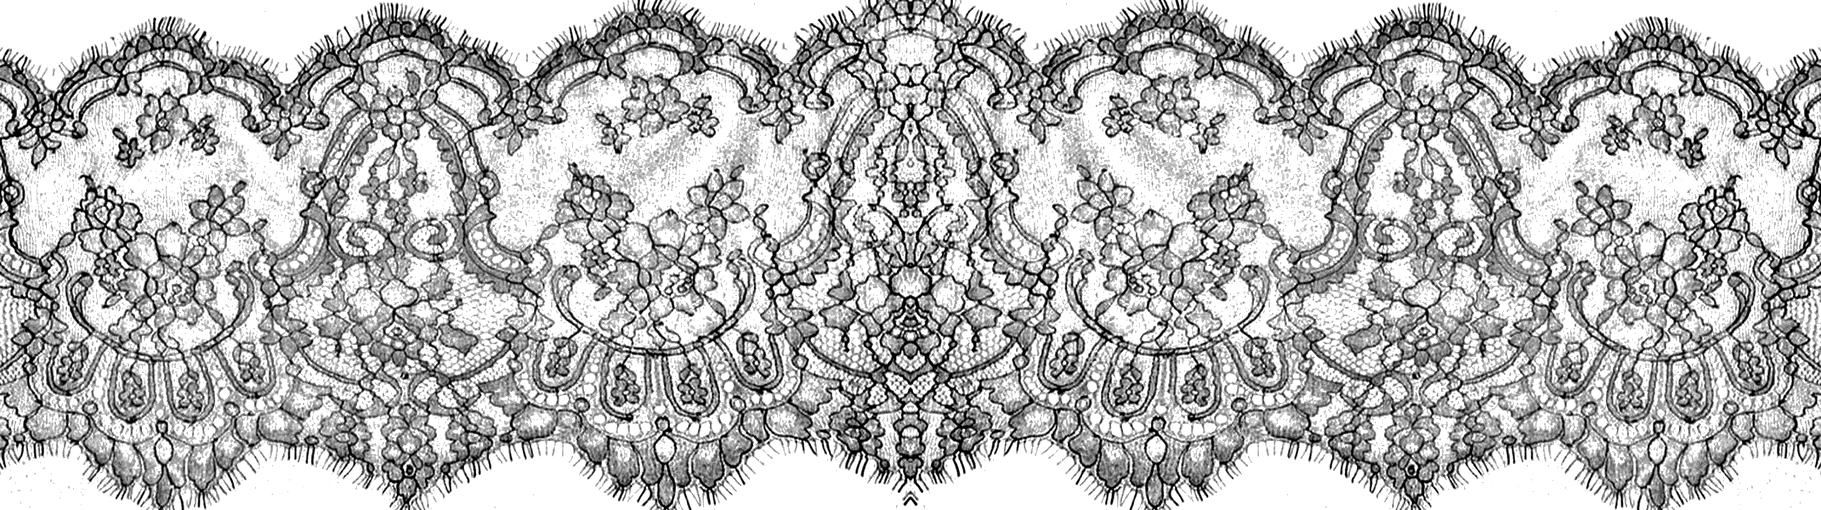
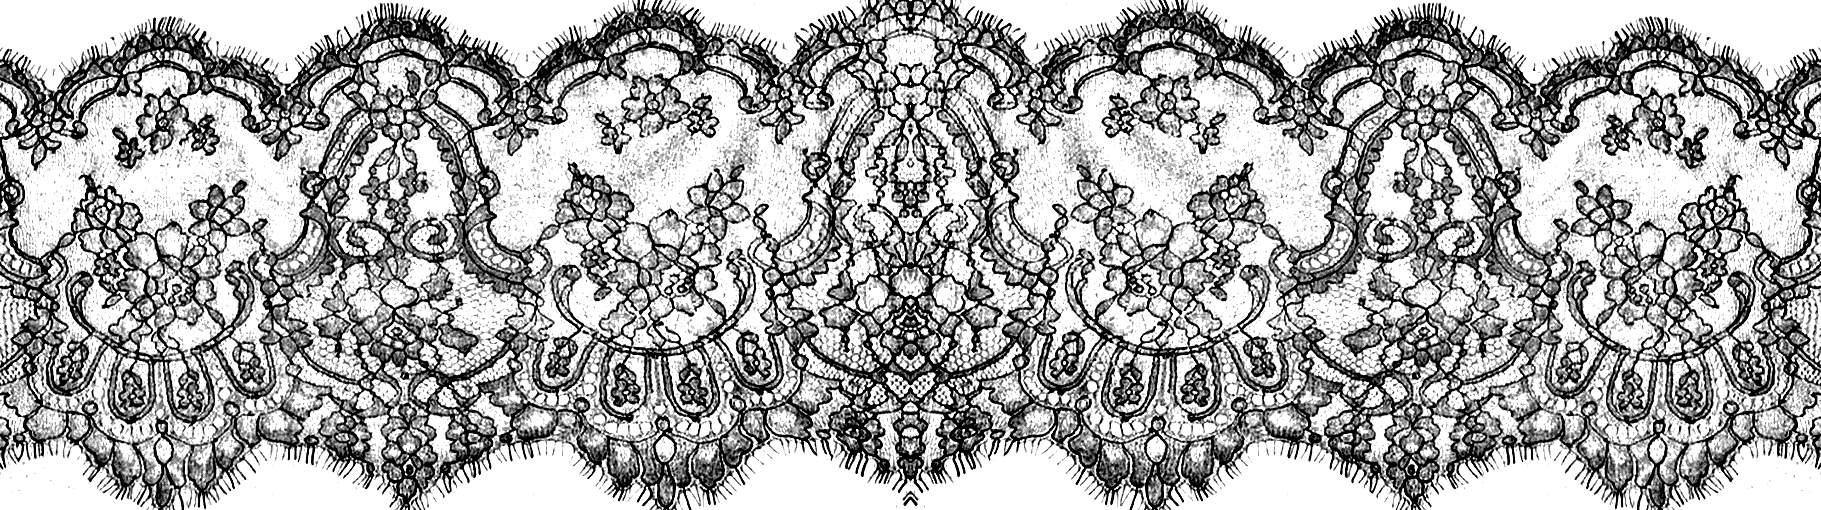
Simple Onyx 'Stories' title; spacing fixes under page titles and on Join; darker lace; beige shelf and ring panels

diff --git a/assets/css/style.css b/assets/css/style.css
@@ -198,7 +198,7 @@ body::after {
 .shelf-panel {
   position: relative;
   margin: 34px var(--gutter) 0;
-  background: #F2F2F0;
+  background: var(--ivory);
   padding: 28px 0 0;
   overflow: hidden;
 }
@@ -398,7 +398,7 @@ main p em, main li em { color: var(--magenta); }
 @media (max-width: 820px) { .site-footer { grid-template-columns: 1fr; } }
 
 /* ---------- generic page header ---------- */
-.page-head { padding: 60px var(--gutter) 40px; text-align: center; }
+.page-head { padding: 60px var(--gutter) 56px; text-align: center; }
 .page-head .kicker { display: block; margin-bottom: 18px; color: var(--muted); }
 .page-title {
   font-family: var(--f-title); font-weight: 400;
@@ -530,7 +530,7 @@ main p em, main li em { color: var(--magenta); }
 /* ---------- gallery ring ---------- */
 .ring-frame {
   position: relative; margin: 0 var(--gutter);
-  background: #E6E6E3; height: calc(100vh - var(--nav-h) - 90px); min-height: 560px;
+  background: var(--ivory); height: calc(100vh - var(--nav-h) - 90px); min-height: 560px;
   overflow: hidden;
 }
 .ring-frame .panel-corners { inset: 14px 18px auto; }
@@ -593,7 +593,7 @@ main p em, main li em { color: var(--magenta); }
 .issue-card p { margin: 6px 0 0; font-size: 15px; color: var(--muted); }
 
 /* ---------- join / get involved ---------- */
-.repeat-type { font-family: var(--f-cond); font-size: clamp(60px, 13vw, 200px); line-height: .82; margin: 0; letter-spacing: -.02em; }
+.repeat-type { font-family: var(--f-cond); font-size: clamp(60px, 13vw, 200px); line-height: .95; margin: 14px 0 0; letter-spacing: -.02em; }
 .repeat-type span { display: block; }
 .repeat-type span:nth-child(1) { opacity: .25; } .repeat-type span:nth-child(2) { opacity: .55; }
 .join-grid { display: grid; grid-template-columns: 1fr 1fr; gap: 50px; margin-top: 70px; }

diff --git a/gallery.html b/gallery.html
@@ -9,12 +9,12 @@
   <link rel="preconnect" href="https://fonts.gstatic.com" crossorigin>
   <link href="https://fonts.googleapis.com/css2?family=Anton&family=Bodoni+Moda:opsz,wght@6..96,400..700&family=Pinyon+Script&display=swap" rel="stylesheet">
   <link rel="preload" href="assets/fonts/OPTIOnyx.otf" as="font" type="font/otf" crossorigin>
-  <link rel="stylesheet" href="assets/css/style.css?v=2026111018173">
+  <link rel="stylesheet" href="assets/css/style.css?v=2026111018196">
 </head>
 <body data-page="gallery">
   <div id="site-header"></div>
   <main>
-    <header class="page-head" style="padding-bottom:24px">
+    <header class="page-head">
       <span class="kicker mono">photography from every shoot</span>
       <h1 class="page-title">The <em>Ring</em></h1>
     </header>
@@ -47,8 +47,8 @@
     <div class="bottom mono"><button class="lb-prev">← prev</button><span class="lb-credits"></span><button class="lb-next">next →</button></div>
   </div>
   <div id="site-footer"></div>
-  <script src="assets/js/data.js?v=2026111018173"></script>
-  <script src="assets/js/main.js?v=2026111018173"></script>
-  <script src="assets/js/ring.js?v=2026111018173"></script>
+  <script src="assets/js/data.js?v=2026111018196"></script>
+  <script src="assets/js/main.js?v=2026111018196"></script>
+  <script src="assets/js/ring.js?v=2026111018196"></script>
 </body>
 </html>

diff --git a/stories.html b/stories.html
@@ -9,14 +9,14 @@
   <link rel="preconnect" href="https://fonts.gstatic.com" crossorigin>
   <link href="https://fonts.googleapis.com/css2?family=Anton&family=Bodoni+Moda:opsz,wght@6..96,400..700&family=Pinyon+Script&display=swap" rel="stylesheet">
   <link rel="preload" href="assets/fonts/OPTIOnyx.otf" as="font" type="font/otf" crossorigin>
-  <link rel="stylesheet" href="assets/css/style.css?v=2026111018173">
+  <link rel="stylesheet" href="assets/css/style.css?v=2026111018196">
 </head>
 <body data-page="stories">
   <div id="site-header"></div>
   <main>
     <header class="page-head">
       <span class="kicker mono">fashion &amp; culture · fashion &amp; politics · fashion &amp; environment</span>
-      <h1 class="page-title">The <em>Stories</em></h1>
+      <h1 class="page-title"><span class="aera-word">Stories</span></h1>
     </header>
     <div class="wrap">
       <div class="filters" id="filters" role="group" aria-label="Filter stories by tag"></div>
@@ -24,8 +24,8 @@
     </div>
   </main>
   <div id="site-footer"></div>
-  <script src="assets/js/data.js?v=2026111018173"></script>
-  <script src="assets/js/main.js?v=2026111018173"></script>
+  <script src="assets/js/data.js?v=2026111018196"></script>
+  <script src="assets/js/main.js?v=2026111018196"></script>
 
 </body>
 </html>

diff --git a/archive.html b/archive.html
@@ -9,7 +9,7 @@
   <link rel="preconnect" href="https://fonts.gstatic.com" crossorigin>
   <link href="https://fonts.googleapis.com/css2?family=Anton&family=Bodoni+Moda:opsz,wght@6..96,400..700&family=Pinyon+Script&display=swap" rel="stylesheet">
   <link rel="preload" href="assets/fonts/OPTIOnyx.otf" as="font" type="font/otf" crossorigin>
-  <link rel="stylesheet" href="assets/css/style.css?v=2026111018173">
+  <link rel="stylesheet" href="assets/css/style.css?v=2026111018196">
 </head>
 <body data-page="archive">
   <div id="site-header"></div>
@@ -29,9 +29,9 @@
     </div>
   </main>
   <div id="site-footer"></div>
-  <script src="assets/js/data.js?v=2026111018173"></script>
-  <script src="assets/js/main.js?v=2026111018173"></script>
-  <script src="assets/js/shelf.js?v=2026111018173"></script>
+  <script src="assets/js/data.js?v=2026111018196"></script>
+  <script src="assets/js/main.js?v=2026111018196"></script>
+  <script src="assets/js/shelf.js?v=2026111018196"></script>
   <script>initShelf(document.getElementById("shelf"), AERA.issues.length >= 6 ? AERA_BOOKS("issues") : AERA_BOOKS());</script>
 </body>
 </html>

diff --git a/index.html b/index.html
@@ -9,7 +9,7 @@
   <link rel="preconnect" href="https://fonts.gstatic.com" crossorigin>
   <link href="https://fonts.googleapis.com/css2?family=Anton&family=Bodoni+Moda:opsz,wght@6..96,400..700&family=Pinyon+Script&display=swap" rel="stylesheet">
   <link rel="preload" href="assets/fonts/OPTIOnyx.otf" as="font" type="font/otf" crossorigin>
-  <link rel="stylesheet" href="assets/css/style.css?v=2026111018173">
+  <link rel="stylesheet" href="assets/css/style.css?v=2026111018196">
 </head>
 <body data-page="home">
   <div id="site-header"></div>
@@ -97,9 +97,9 @@
 
   <div id="site-footer"></div>
 
-  <script src="assets/js/data.js?v=2026111018173"></script>
-  <script src="assets/js/main.js?v=2026111018173"></script>
-  <script src="assets/js/shelf.js?v=2026111018173"></script>
+  <script src="assets/js/data.js?v=2026111018196"></script>
+  <script src="assets/js/main.js?v=2026111018196"></script>
+  <script src="assets/js/shelf.js?v=2026111018196"></script>
   <script>initShelf(document.getElementById('shelf'), AERA_BOOKS());</script>
 </body>
 </html>

diff --git a/staff.html b/staff.html
@@ -9,7 +9,7 @@
   <link rel="preconnect" href="https://fonts.gstatic.com" crossorigin>
   <link href="https://fonts.googleapis.com/css2?family=Anton&family=Bodoni+Moda:opsz,wght@6..96,400..700&family=Pinyon+Script&display=swap" rel="stylesheet">
   <link rel="preload" href="assets/fonts/OPTIOnyx.otf" as="font" type="font/otf" crossorigin>
-  <link rel="stylesheet" href="assets/css/style.css?v=2026111018173">
+  <link rel="stylesheet" href="assets/css/style.css?v=2026111018196">
 </head>
 <body data-page="staff">
   <div id="site-header"></div>
@@ -21,8 +21,8 @@
     <div class="wrap" id="masthead"></div>
   </main>
   <div id="site-footer"></div>
-  <script src="assets/js/data.js?v=2026111018173"></script>
-  <script src="assets/js/main.js?v=2026111018173"></script>
+  <script src="assets/js/data.js?v=2026111018196"></script>
+  <script src="assets/js/main.js?v=2026111018196"></script>
 
 </body>
 </html>

diff --git a/join.html b/join.html
@@ -9,7 +9,7 @@
   <link rel="preconnect" href="https://fonts.gstatic.com" crossorigin>
   <link href="https://fonts.googleapis.com/css2?family=Anton&family=Bodoni+Moda:opsz,wght@6..96,400..700&family=Pinyon+Script&display=swap" rel="stylesheet">
   <link rel="preload" href="assets/fonts/OPTIOnyx.otf" as="font" type="font/otf" crossorigin>
-  <link rel="stylesheet" href="assets/css/style.css?v=2026111018173">
+  <link rel="stylesheet" href="assets/css/style.css?v=2026111018196">
 </head>
 <body data-page="join">
   <div id="site-header"></div>
@@ -77,8 +77,8 @@
     </section>
   </main>
   <div id="site-footer"></div>
-  <script src="assets/js/data.js?v=2026111018173"></script>
-  <script src="assets/js/main.js?v=2026111018173"></script>
+  <script src="assets/js/data.js?v=2026111018196"></script>
+  <script src="assets/js/main.js?v=2026111018196"></script>
 
 </body>
 </html>

diff --git a/about.html b/about.html
@@ -9,7 +9,7 @@
   <link rel="preconnect" href="https://fonts.gstatic.com" crossorigin>
   <link href="https://fonts.googleapis.com/css2?family=Anton&family=Bodoni+Moda:opsz,wght@6..96,400..700&family=Pinyon+Script&display=swap" rel="stylesheet">
   <link rel="preload" href="assets/fonts/OPTIOnyx.otf" as="font" type="font/otf" crossorigin>
-  <link rel="stylesheet" href="assets/css/style.css?v=2026111018173">
+  <link rel="stylesheet" href="assets/css/style.css?v=2026111018196">
 </head>
 <body data-page="about">
   <div id="site-header"></div>
@@ -68,8 +68,8 @@
     </div>
   </main>
   <div id="site-footer"></div>
-  <script src="assets/js/data.js?v=2026111018173"></script>
-  <script src="assets/js/main.js?v=2026111018173"></script>
+  <script src="assets/js/data.js?v=2026111018196"></script>
+  <script src="assets/js/main.js?v=2026111018196"></script>
 
 </body>
 </html>

diff --git a/story.html b/story.html
@@ -9,14 +9,14 @@
   <link rel="preconnect" href="https://fonts.gstatic.com" crossorigin>
   <link href="https://fonts.googleapis.com/css2?family=Anton&family=Bodoni+Moda:opsz,wght@6..96,400..700&family=Pinyon+Script&display=swap" rel="stylesheet">
   <link rel="preload" href="assets/fonts/OPTIOnyx.otf" as="font" type="font/otf" crossorigin>
-  <link rel="stylesheet" href="assets/css/style.css?v=2026111018173">
+  <link rel="stylesheet" href="assets/css/style.css?v=2026111018196">
 </head>
 <body data-page="story">
   <div id="site-header"></div>
   <main id="article"></main>
   <div id="site-footer"></div>
-  <script src="assets/js/data.js?v=2026111018173"></script>
-  <script src="assets/js/main.js?v=2026111018173"></script>
+  <script src="assets/js/data.js?v=2026111018196"></script>
+  <script src="assets/js/main.js?v=2026111018196"></script>
 
 </body>
 </html>

diff --git a/assets/js/main.js b/assets/js/main.js
@@ -337,7 +337,7 @@
   /* ---------------- page: single story ---------------- */
   if (page === 'story' && !D.stories.some(s => s.id === new URLSearchParams(location.search).get('id'))) {
     document.title = 'Coming soon — Aera Magazine';
-    $('#article').innerHTML = `<header class="page-head"><span class="kicker mono">stories</span><h1 class="page-title">Coming <em>soon</em></h1></header><div class="wrap">${comingSoon(true)}</div>`;
+    $('#article').innerHTML = `<header class="page-head"><span class="kicker mono">stories</span><h1 class="page-title"><span class="aera-word">Coming soon</span></h1></header><div class="wrap">${comingSoon(true)}</div>`;
   } else if (page === 'story') {
     const id = new URLSearchParams(location.search).get('id');
     const idx = Math.max(0, D.stories.findIndex(s => s.id === id));
